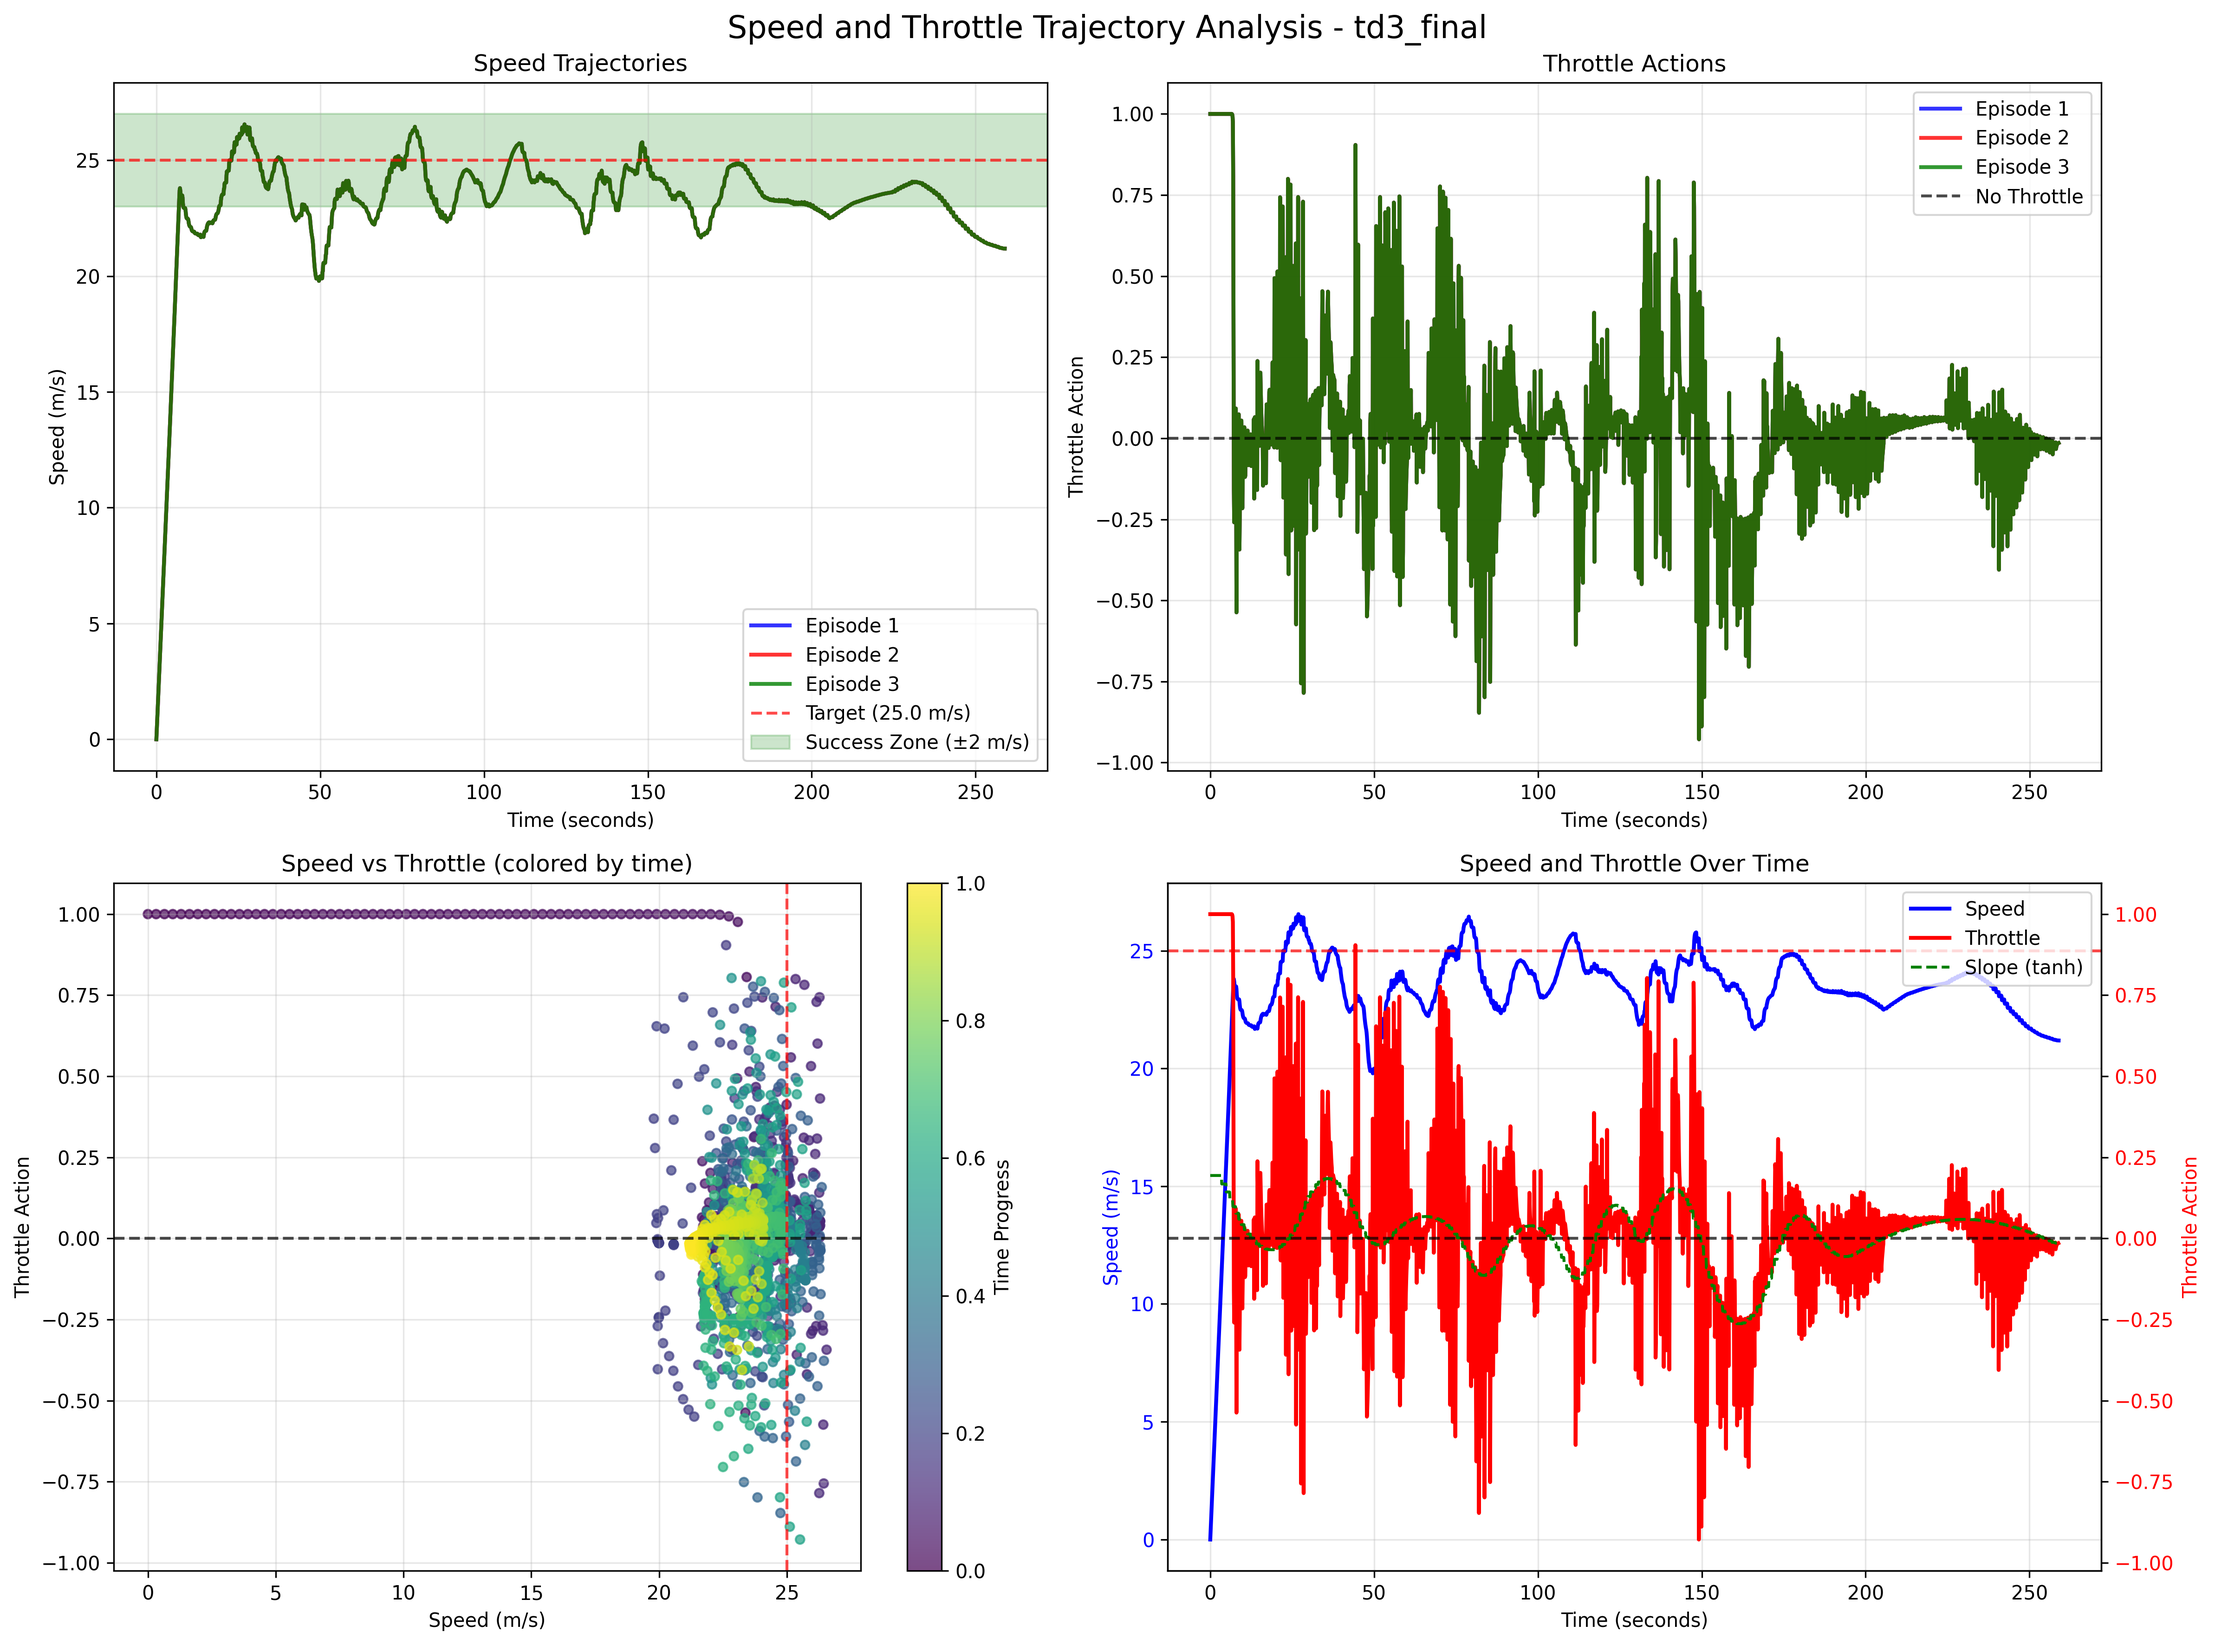
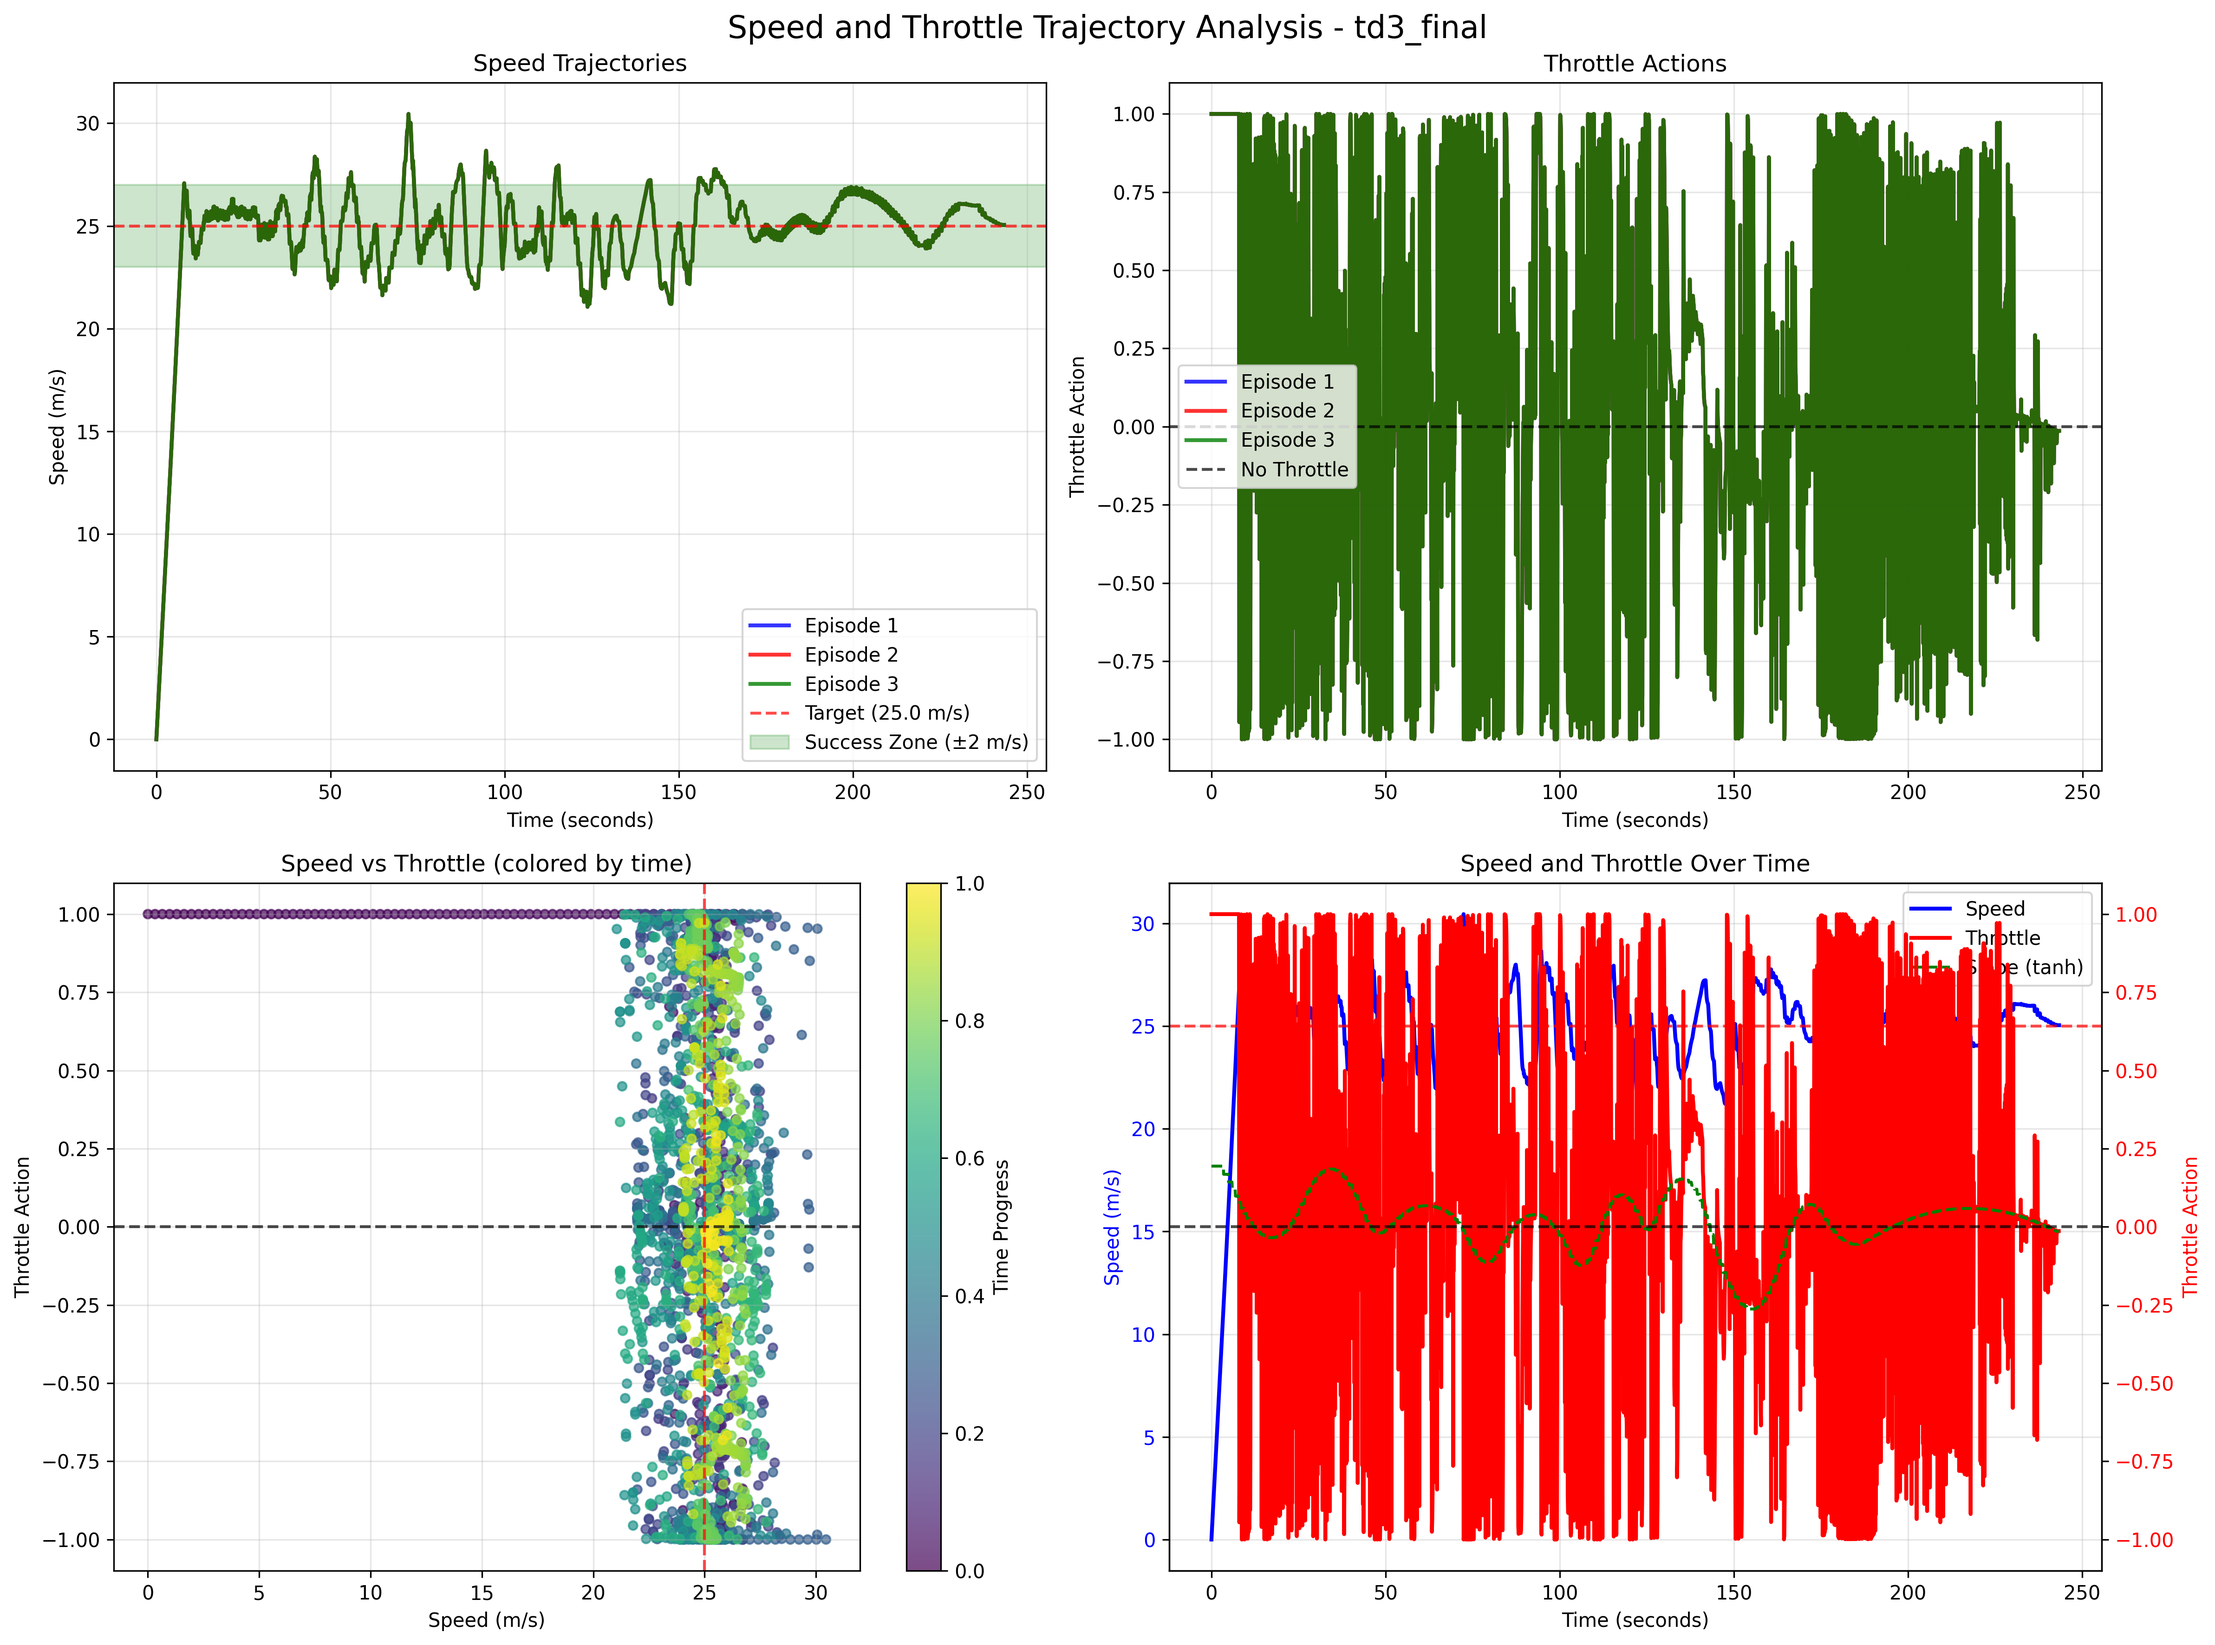
before smotthing

diff --git a/td3.py b/td3.py
@@ -95,8 +95,8 @@ class TD3:
         device=None,
         discount=0.99,
         tau=0.005,
-        policy_noise=0.2,
-        noise_clip=0.5,
+        policy_noise=0.1,
+        noise_clip=0.2,
         policy_freq=2
     ):
         # Use CUDA if available, otherwise fall back to CPU
@@ -148,7 +148,8 @@ class TD3:
         action = self.actor(state).cpu().data.numpy().flatten()
         
         if add_noise:
-            noise = np.random.normal(0, self.max_action * 0.2, size=action.shape)  # Increased exploration noise
+            # Lower exploration noise for smoother actions
+            noise = np.random.normal(0, self.max_action * 0.1, size=action.shape)
             action = action + noise
             action = np.clip(action, -self.max_action, self.max_action)
             

diff --git a/car_env.py b/car_env.py
@@ -58,7 +58,7 @@ class CarThrottleEnv(gym.Env):
         self.slope_accel_scale = 3.8     # slope effect on accel via tanh slope in [-1,1] -> [-3,3]
         self.fuel_rate_base = 0.0
         self.fuel_rate_throttle = 0.015  # fuel per unit positive throttle
-        self.fuel_rate_uphill = 0.010    # extra fuel when uphill and throttling
+        self.fuel_rate_uphill = 0.012 #was 0.010    # extra fuel when uphill and throttling
 
         # Reward shaping weights: prioritize fuel, allow speed flexibility within a margin
         self.fuel_reward_scale = 1000.0  # scales per-step fuel to comparable magnitude

diff --git a/train.py b/train.py
@@ -43,7 +43,7 @@ def main():
     max_action = float(env.action_space.high[0])
     
     # Training parameters
-    max_episodes = 55
+    max_episodes = 200
     # Allow enough steps to finish the ~6km route at dt=0.1s
     # At 25 m/s this is ~2400 steps; give extra margin
     max_timesteps = 3000
